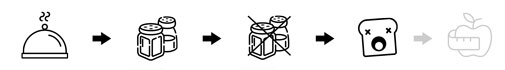
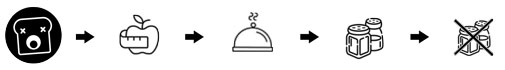
changed app to start with allergies + changed steps image

Changed region(s): [[0.0, 0.0857, 0.9802, 0.9143]]

diff --git a/js/main.js b/js/main.js
@@ -16,6 +16,8 @@ let recipes = [];
 let userInstructed = false;
 let readyForAllergies = false;
 let readyForDiet = false;
+let readyForMeal = false;
+let readyForAllowed = false;
 let searchHasBeenRun = false;
 const botSays = {
 										loader : `<div class='current-message message'>
@@ -140,11 +142,142 @@ function greetUser() {
 	setTimeout(function(){ 
 		if (userInstructed) {
 			$('#user-input').css('display', 'block');
-			$('.main-input').focus().attr('placeholder', 'Type desired meal here...');
+			readyForAllergies = true;
+			checkForAllergies();
 		}
   }, 6800);
-  userFlow('images/meal.jpg', 'Type desired meal below or skip with \'Next\'');
-	getMeal(getAllowedIng);
+}
+
+
+
+
+// Ask user about allergies 
+function checkForAllergies() {
+	$('#user-input').empty().html(`<div class="checkboxheader">
+																<form id="js-user-input" class="checkboxlist">
+																  <label><input type="checkbox" value="Dairy" class="allergy">Dairy</label>
+															    <label><input type="checkbox" value="Egg" class="allergy">Egg</label>
+															    <label><input type="checkbox" value="Gluten" class="allergy">Gluten</label>
+															    <label><input type="checkbox" value="Peanut" class="allergy">Peanut</label>
+															    <label><input type="checkbox" value="Seafood" class="allergy">Seafood</label>
+															    <label><input type="checkbox" value="Sesame" class="allergy">Sesame</label>
+															    <label><input type="checkbox" value="Soy" class="allergy">Soy</label>
+															    <label><input type="checkbox" value="Sulfite" class="allergy">Sulfite</label>
+															    <label><input type="checkbox" value="Tree Nut" class="allergy">Tree Nut</label>
+															    <label><input type="checkbox" value="Wheat" class="allergy">Wheat</label>
+															    <button id="js-user-submit" type="submit" class="allergyButton">Next</button>
+														    </form>
+														    </div>`);
+	// $('#user-flow').remove();
+	userFlow('images/allergy.jpg', 'Avast matey, do you have allergies? When yer done choosing or no allergies apply press \'Enter\' or \'Next\'');
+	if (readyForAllergies) {
+		getCheckedValues('.allergy', allergyVal, true, checkForDiet);
+		readyForDiet = true;
+	} else {
+		return false;
+	}
+	readyForAllergies = false;
+}
+
+
+
+// Ask user for diet preferences 
+function checkForDiet() {
+	if (allergyVal.length > 0) {
+		userMessage(allergyVal);
+	} else {
+		userMessage('No men blown down today.');
+	}
+	$('#user-input').empty().html(`<div class="checkboxheader">
+																<form id="js-user-input" class="checkboxlist">
+																  <label><input type="checkbox" value="Lacto vegetarian" class="diet">Lacto vegetarian</label>
+															    <label><input type="checkbox" value="Ovo vegetarian" class="diet">Ovo vegetarian</label>
+															    <label><input type="checkbox" value="Pescetarian" class="diet">Pescetarian</label>
+															    <label><input type="checkbox" value="Vegan" class="diet">Vegan</label>
+															    <label><input type="checkbox" value="Vegetarian" class="diet">Vegetarian</label>
+															    <button id="js-user-submit" type="submit" class="dietButton ">Next</button>
+														    </form>
+														    </div>`);
+	$('#user-flow').remove();
+	userFlow('images/diet.jpg', 'Aye but are you on a diet? When yer done choosing or no diets apply press \'Next\'');
+	
+	if (readyForDiet) {
+		getCheckedValues('.diet', dietVal, false, getMeal);
+		readyForMeal = true;
+	} else {
+		return false;
+	}
+	readyForDiet = false;
+}
+
+
+// Get meal from user input
+function getMeal() {
+	if (dietVal.length > 0) {
+		userMessage(dietVal);
+	} else {
+		userMessage('Oh, thy magic bowel!');
+	}
+	$('#user-input').empty().html(`<form id="js-user-input">
+																			<fieldset>
+																				<div class="tags-input" data-name="tags-input">
+																				</div>
+																				<br>
+																				<input id="js-checkbox" type="checkbox" name="checkbox" checked="">
+																				<label for="checkbox">
+																					Send message with Enter
+																				</label>
+																				<br>
+																				<button id="js-user-submit" type="submit">Next</button>
+																			</fieldset>
+																		</form>`);
+
+	$('#user-flow').remove();
+	userFlow('images/meal.jpg', 'Type desired meal below or skip with \'Next\'');
+
+	const tagsInput = document.getElementsByClassName('tags-input');
+	let mainInput = document.createElement('input');
+
+  mainInput.setAttribute('type', 'text');
+  mainInput.classList.add('main-input');
+
+	$(tagsInput).append(mainInput);
+	$('.main-input').focus().attr('placeholder', 'Type desired meal here...');
+	
+	// When user presses Enter or Comma during entering of the search details
+  $(mainInput).off('keydown').on('keydown', function (e) {
+      let keyCode = e.which || e.keyCode;
+      if (keyCode === 13) {
+      	e.preventDefault();
+      	$('#js-user-submit').click();
+      } 
+
+  });
+
+  $('#js-user-submit').off('click')
+										  .on('click', (e) => {
+							        		e.preventDefault();
+							        		userEnteredMeal();
+							        	});
+
+	// What happens when user enters meal
+  function userEnteredMeal() {
+  	let emptyRegExp = /^ +$/;
+  	let enteredMeal = mainInput.value;
+  	if (userInstructed) {
+    	if (emptyRegExp.test(enteredMeal)) {
+			  mainInput.value = '';
+			} else if ( enteredMeal.length > 0 ) {
+      	tags.push(enteredMeal);
+      	mainInput.value = '';
+      	getAllowedIng();
+      	return tags;
+      } else if ( enteredMeal.length < 1 ) {
+      	getAllowedIng();
+      }
+    }
+  }
+
 }
 
 
@@ -181,91 +314,26 @@ function getExcludedIng() {
 	}
 	$('#user-flow').remove();
 	userFlow('images/excluded.jpg', 'Type excluded ingredients below or skip with \'Next\'');
-	getTags(checkForAllergies);
+	getTags(startingSearch);
 	$('.main-input').focus().attr('placeholder', 'Type excluded ingredients here...');
-	readyForAllergies = true;
 }
 
 
-
-// Ask user about allergies 
-function checkForAllergies() {
+// Notify the user that search has been started 
+function startingSearch() {
 	if (tags.length >= 1) {
 		excludedIng = tags.map(item => item.text);
 		userMessage(excludedIng);
 		$('.tags-input').empty();
 		tags = [];
 	} else {
-		userMessage('No hornswaggle I tell ya, me eats it all!');
+		userMessage('No hornswaggle, me eats it all.');
 		$('.tags-input').empty();
-	} 
-	$('#user-input').empty().html(`<div class="checkboxheader">
-																<form id="js-user-input" class="checkboxlist">
-																  <label><input type="checkbox" value="Dairy" class="allergy">Dairy</label>
-															    <label><input type="checkbox" value="Egg" class="allergy">Egg</label>
-															    <label><input type="checkbox" value="Gluten" class="allergy">Gluten</label>
-															    <label><input type="checkbox" value="Peanut" class="allergy">Peanut</label>
-															    <label><input type="checkbox" value="Seafood" class="allergy">Seafood</label>
-															    <label><input type="checkbox" value="Sesame" class="allergy">Sesame</label>
-															    <label><input type="checkbox" value="Soy" class="allergy">Soy</label>
-															    <label><input type="checkbox" value="Sulfite" class="allergy">Sulfite</label>
-															    <label><input type="checkbox" value="Tree Nut" class="allergy">Tree Nut</label>
-															    <label><input type="checkbox" value="Wheat" class="allergy">Wheat</label>
-															    <button id="js-user-submit" type="submit" class="allergyButton">Next</button>
-														    </form>
-														    </div>`);
-	$('#user-flow').remove();
-	userFlow('images/allergy.jpg', 'Avast matey, do you have allergies? When yer done choosing or no allergies apply press \'Enter\' or \'Next\'');
-	if (readyForAllergies) {
-		getCheckedValues('.allergy', allergyVal, true, checkForDiet);
-		readyForDiet = true;
-	} else {
-		return false;
-	}
-	readyForAllergies = false;
-}
-
-
-
-// Ask user for diet preferences 
-function checkForDiet() {
-	if (allergyVal.length > 0) {
-		userMessage(allergyVal);
-	} else {
-		userMessage('No men blown down today.');
-	}
-	$('#user-input').empty().html(`<div class="checkboxheader">
-																<form id="js-user-input" class="checkboxlist">
-																  <label><input type="checkbox" value="Lacto vegetarian" class="diet">Lacto vegetarian</label>
-															    <label><input type="checkbox" value="Ovo vegetarian" class="diet">Ovo vegetarian</label>
-															    <label><input type="checkbox" value="Pescetarian" class="diet">Pescetarian</label>
-															    <label><input type="checkbox" value="Vegan" class="diet">Vegan</label>
-															    <label><input type="checkbox" value="Vegetarian" class="diet">Vegetarian</label>
-															    <button id="js-user-submit" type="submit" class="dietButton ">Show results</button>
-														    </form>
-														    </div>`);
-	$('#user-flow').remove();
-	userFlow('images/diet.jpg', 'Aye but are you on a diet? When yer done choosing or no diets apply press \'Show results\'');
-	
-	if (readyForDiet) {
-		getCheckedValues('.diet', dietVal, false, startingSearch);
-	} else {
-		return false;
-	}
-	readyForDiet = false;
-}
-
-
-
-// Notify the user that search has been started 
-function startingSearch() {
-	if (dietVal.length > 0) {
-		userMessage(dietVal);
-	} else {
-		userMessage('Oh, thy magic bowel!');
+		readyForAllergies = true;
 	}
 	if (searchHasBeenRun) {
 		$('#js-results').empty();
+		readyForAllergies = true;
 	}
 	searchAPI(searchTerms, allowedIng, excludedIng, allergyVal, dietVal);
 	
@@ -279,11 +347,12 @@ function startingSearch() {
 // Clear conversation and restart app 
 function userRestart() {
   document.addEventListener('keydown', function (e) {
+  	if (e.target.dataset.restart != undefined) { 
         let keyCode = e.which || e.keyCode;
         if (keyCode === 13) {
         	e.preventDefault();
         } 
-
+      }
     });
 	document.addEventListener('click', function(e) {
 
@@ -292,19 +361,6 @@ function userRestart() {
     	$('#js-results').empty();
     	$('#js-conversation').empty();
     	$('.tags-input').empty();
-    	$('#user-input').empty().html(`<form id="js-user-input">
-																			<fieldset>
-																				<div class="tags-input" data-name="tags-input">
-																				</div>
-																				<br>
-																				<input id="js-checkbox" type="checkbox" name="checkbox" checked="">
-																				<label for="checkbox">
-																					Send message with Enter
-																				</label>
-																				<br>
-																				<button id="js-user-submit" type="submit">Next</button>
-																			</fieldset>
-																		</form>`);
 			botMessage(botSays.restartGreet);
 			searchTerms = [];
 			allowedIng = [];
@@ -312,62 +368,12 @@ function userRestart() {
 			allergyVal;
 			dietVal;
 			recipes = [];
-			let readyForAllergies = false;
-			let readyForDiet = false;
-			userFlow('images/meal.jpg', 'Type desired meal below or skip with \'Enter\' or \'Next\'');
-			getMeal(getAllowedIng);
+			userFlow('images/allergy.jpg', 'Avast matey, do you have allergies? When yer done choosing or no allergies apply press \'Enter\' or \'Next\'');
+			checkForAllergies();
 			$('#user-input').css('display', 'block');
-			$('.main-input').focus().attr('placeholder', 'Type desired meal here...');
     }
-  }, false);
+  });
 	
-}
-
-
-// Get meal from user input
-function getMeal(callback) {
-	const tagsInput = document.getElementsByClassName('tags-input');
-	let mainInput = document.createElement('input');
-
-  mainInput.setAttribute('type', 'text');
-  mainInput.classList.add('main-input');
-
-	$(tagsInput).append(mainInput);
-
-	// When user presses Enter or Comma during entering of the search details
-    mainInput.addEventListener('keydown', function (e) {
-        let keyCode = e.which || e.keyCode;
-        if (keyCode === 13) {
-        	e.preventDefault();
-        	userEnteredMeal();
-        } 
-
-    });
-
-    $('#js-user-submit').off('click')
-											  .on('click', (e) => {
-								        		e.preventDefault();
-								        		userEnteredMeal();
-								        	});
-
-		// What happens when user enters meal
-    function userEnteredMeal() {
-    	let emptyRegExp = /^ +$/;
-    	let enteredMeal = mainInput.value;
-    	if (userInstructed) {
-	    	if (emptyRegExp.test(enteredMeal)) {
-				  mainInput.value = '';
-				} else if ( enteredMeal.length > 0 ) {
-	      	tags.push(enteredMeal);
-	      	mainInput.value = '';
-	      	callback();
-	      	return tags;
-	      } else if ( enteredMeal.length < 1 ) {
-	      	callback();
-	      }
-	    }
-    }
-
 }
 
 
@@ -601,7 +607,7 @@ function displayResults(data) {
 	if (data.matches.length > 0) {
 		resultsMessage(botSays.gotResultsNotification);
 		$('#results img').remove();
-		$('#results').prepend(`<img id='result-head-img' src='images/results301x185-300dpi.png' alt='Results image'>`);
+		$('#results').prepend(`<img id='result-head-img' src='images/results301x185-300dpi.png' alt='Results image - source: https://www.freepik.com/free-vector/pirate-skull-and-a-map-on-the-wall_1296860.htm - Designed by Freepik'>`);
 		// Loop through the results and render them 
 		data.matches.map( (item, index) => renderResult(item) );
 		// Add images from recipes array
@@ -616,7 +622,6 @@ function displayResults(data) {
 		showRecipeToUser();
 	} else {
 		$('#results h2').remove();
-		$('#results').prepend(`<h2> No Results</h2>`);
 		resultsMessage(botSays.noResultsNotification);
 
 	}

diff --git a/css/main.css b/css/main.css
@@ -178,6 +178,10 @@ input[type="submit"]:hover {
   height: auto;
 }
 
+#user-flow p {
+	padding: 5px;
+}
+
 #user-flow p::before {
 	content: 'Instructions: ';
 }
@@ -396,6 +400,9 @@ input.diet {
 @media only screen and (min-width: 720px) {
 	#user-flow img {
     width: 80%;
+	}
+	#user-flow p {
+		padding: 8px;
 	}
 	.checkboxlist label,
 	#user-flow,
